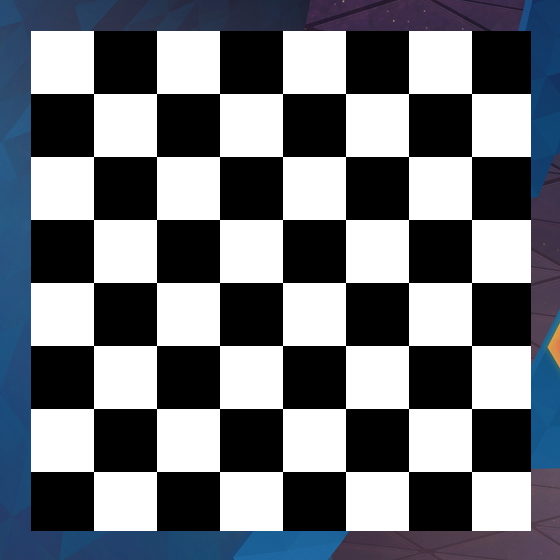
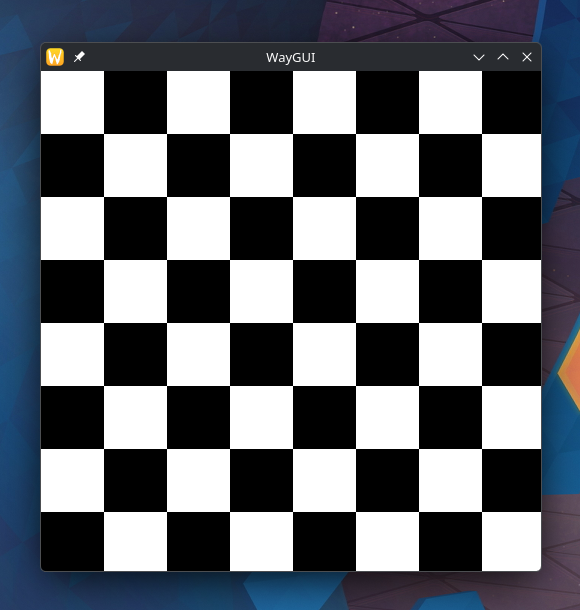
enable server side decoration

diff --git a/python/wire.py b/python/wire.py
@@ -27,6 +27,10 @@ recv_buffer = BytesIO()
 interface = wl.build_interface()
 xdg_interface = wl.build_interface(path="/usr/share/wayland-protocols/stable/xdg-shell/xdg-shell.xml")
 interface.update(xdg_interface)
+zxdg_decoration_v1 = wl.build_interface(
+    path="/usr/share/wayland-protocols/unstable/xdg-decoration/xdg-decoration-unstable-v1.xml"
+)
+interface.update(zxdg_decoration_v1)
 objects = [
     None,
     wl.WLObject(wl.ObjID(1), "wl_display", interface["wl_display"])
@@ -247,6 +251,16 @@ def main():
     xdg_wm_base = objects[new_id]
     xdg_wm_base.set_callback("ping", partial(xdg_wm_base_pong, xdg_wm_base))
 
+    # wl_registry::bind("zxdg_decoration_manager_v1", "zxdg_decoration_manager_v1", 1, new_id)
+    write_request(
+        wl_registry, "bind",
+        name=global_objs["zxdg_decoration_manager_v1"]["name"],
+        new_interface_name="zxdg_decoration_manager_v1",
+        new_interface_version=global_objs["zxdg_decoration_manager_v1"]["version"],
+        id=(new_id := len(objects))
+    )
+    xdg_decoration = objects[new_id]
+
     flush()
 
     # wl_compositor::create_surface(new_id)
@@ -277,6 +291,15 @@ def main():
     xdg_toplevel.set_callback("configure_bounds", configure_bounds)
     xdg_toplevel.set_callback("configure")
     xdg_toplevel.set_callback("close", stop)
+
+    # zxdg_decoration_manager_v1::get_toplevel_decoration(new_id, toplevel)
+    write_request(
+        xdg_decoration, "get_toplevel_decoration",
+        id=(new_id := len(objects)),
+        toplevel=xdg_toplevel.obj_id.value,
+    )
+    xdg_toplevel_decoration = objects[new_id]
+    xdg_toplevel_decoration.set_callback("configure")
 
     # xdg_toplevel::set_title("WayGUI")
     write_request(
